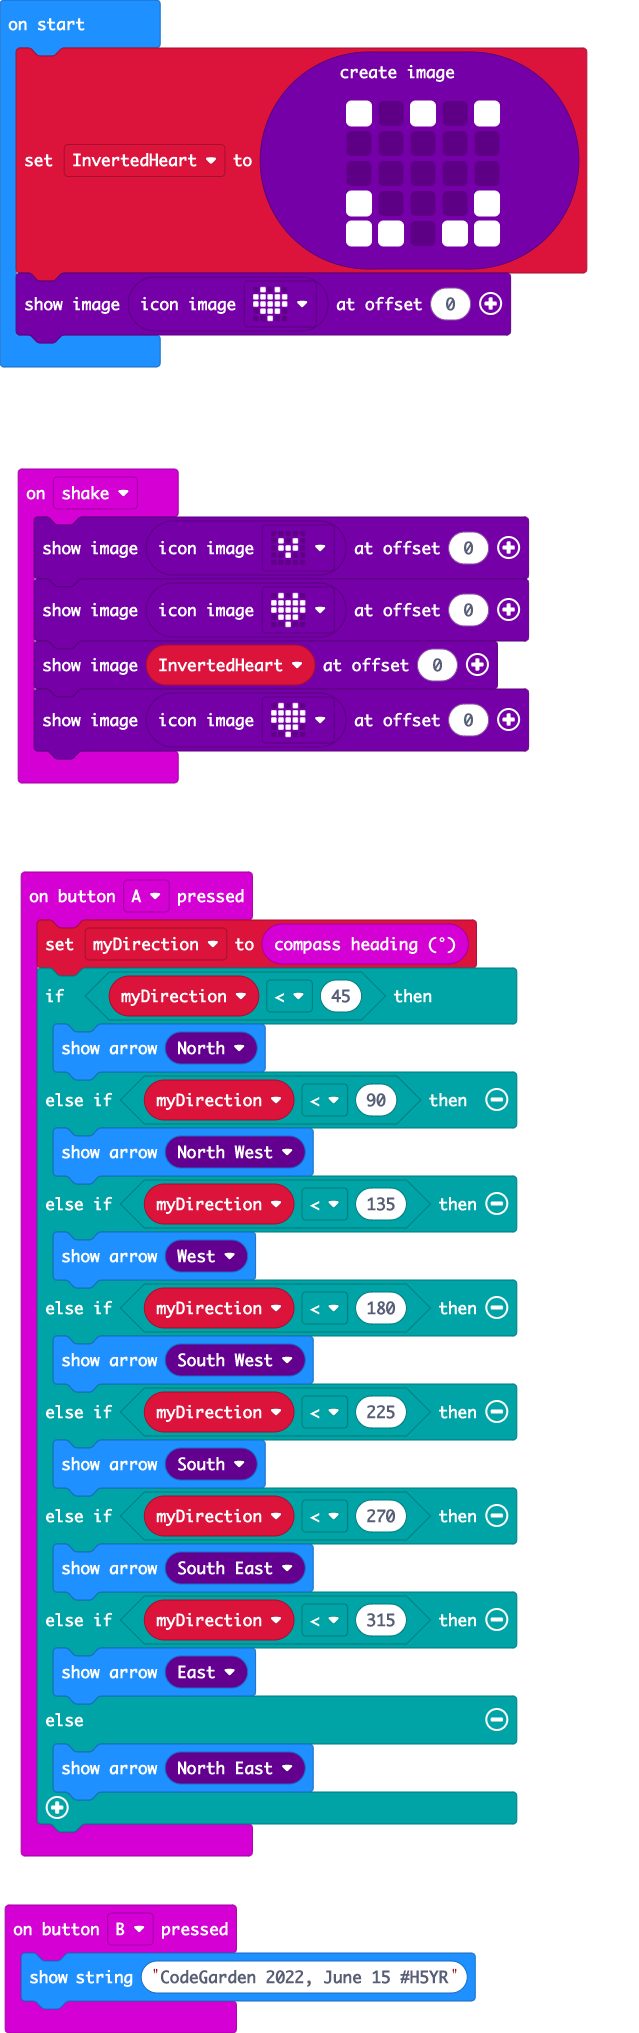
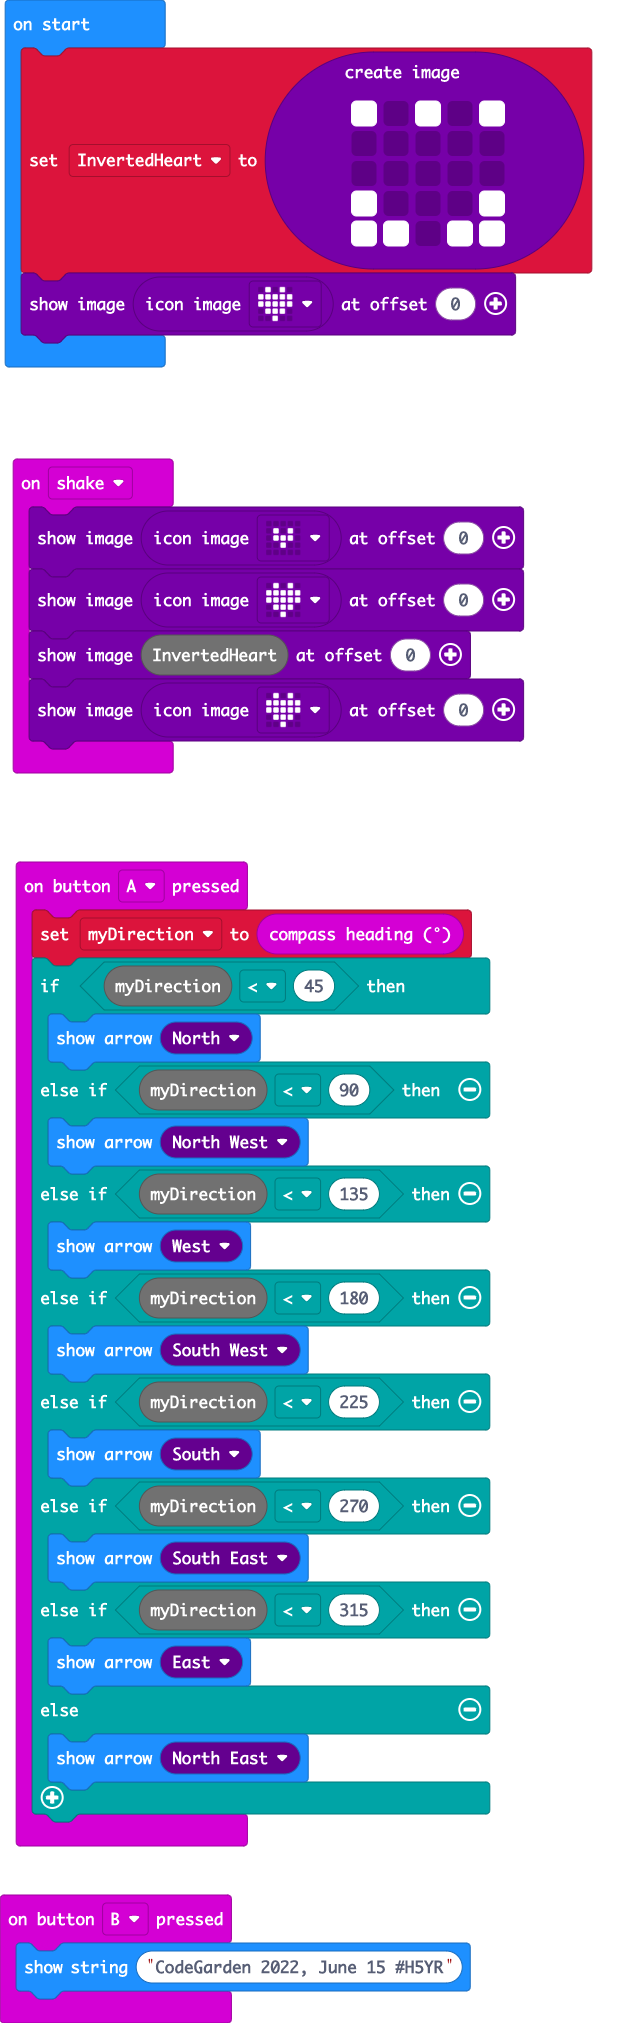
Fixed compilation errors

diff --git a/main.ts b/main.ts
@@ -1,5 +1,5 @@
 input.onButtonPressed(Button.A, function () {
-    myDirection = input.compassHeading()
+    myDirection2 = input.compassHeading()
     if (myDirection < 45) {
         basic.showArrow(ArrowNames.North)
     } else if (myDirection < 90) {
@@ -27,9 +27,8 @@ input.onGesture(Gesture.Shake, function () {
     InvertedHeart.showImage(0)
     images.iconImage(IconNames.Heart).showImage(0)
 })
-let myDirection = 0
-let InvertedHeart: Image = null
-InvertedHeart = images.createImage(`
+let myDirection2 = 0
+let InvertedHeart2 = images.createImage(`
     # . # . #
     . . . . .
     . . . . .
